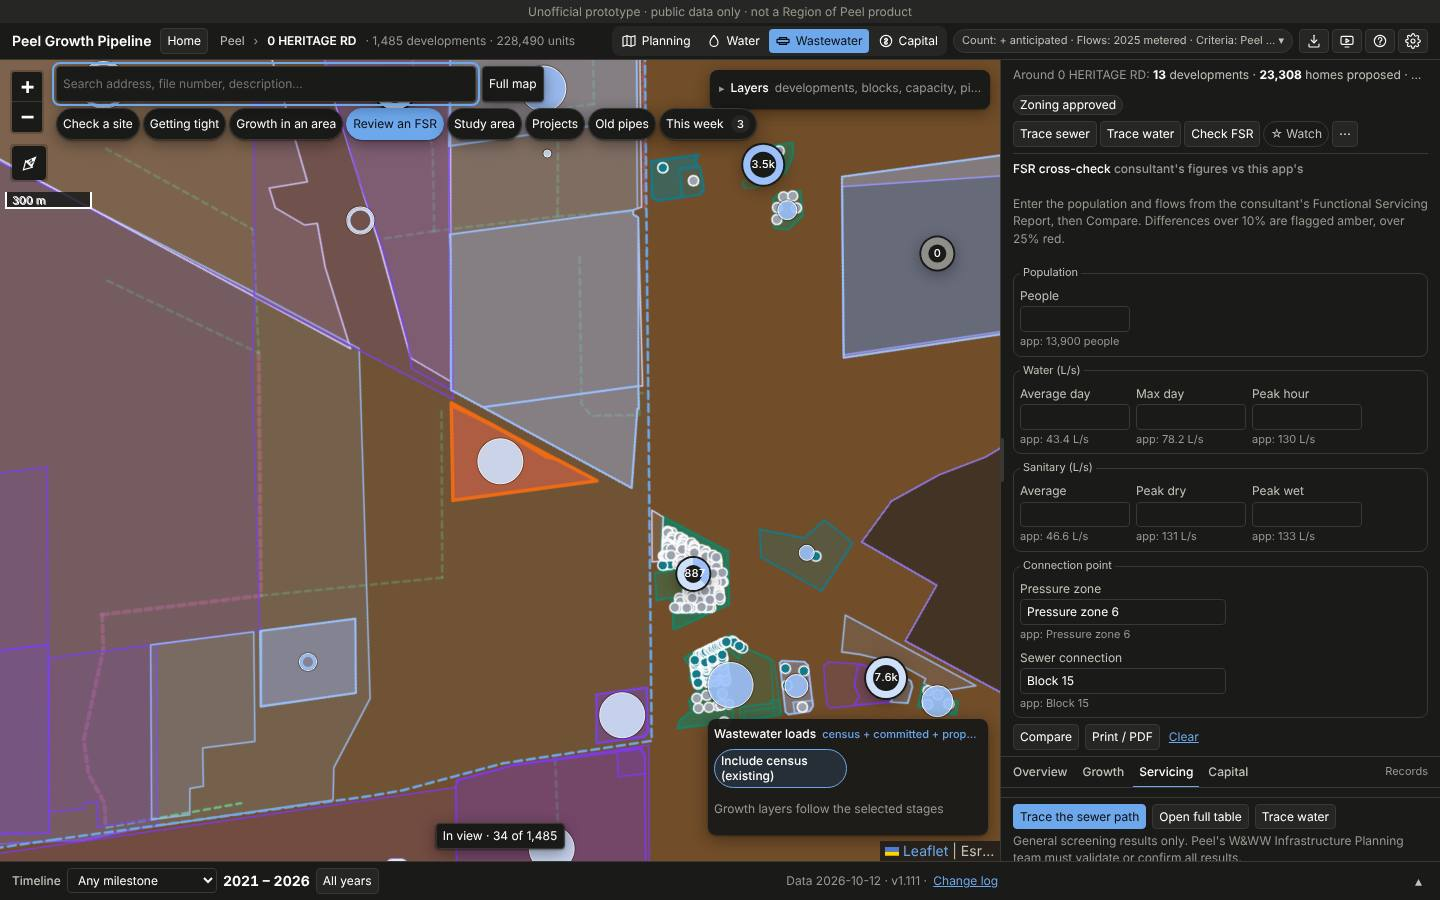
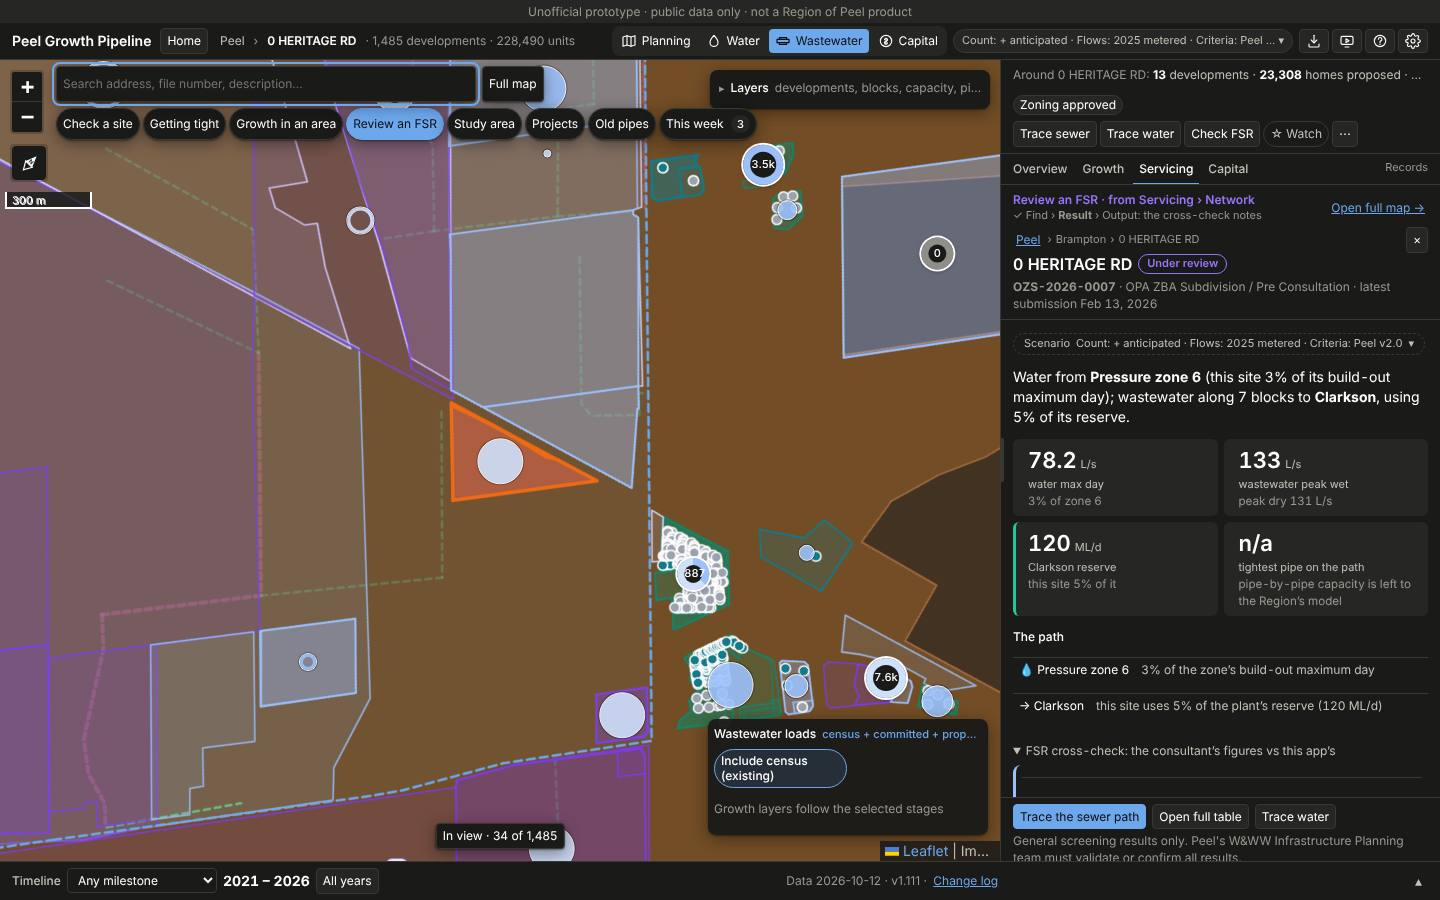
Review an FSR: the cross-check is an open fold of the Servicing panel at the site
The site bar's copy closes in this workspace; the form, its drafts and a comparison already run carry over (js/fsr-check.js mount).

Claude-Session: https://claude.ai/code/session_01E9zDvm6xW3ynJ788gjwVZS

diff --git a/js/workspaces.js b/js/workspaces.js
@@ -141,7 +141,9 @@
     const MA = root.PeelMapAnalysis; if (MA && MA.setMapView && MA.currentView && MA.currentView() !== pl.view) MA.setMapView(pl.view);
     const A = AT(); if (A) { if (pl.sub && A.setSub) A.setSub(pl.tab, pl.sub); if (A.setFootPref) A.setFootPref(pl.tab); A.showFootTab(pl.tab); }
     pipesLayer(id === 'pipes');
-    if (pl.fsr) setTimeout(() => { const b = document.querySelector('#site-bar [data-scope-fsr]'); if (b && !document.querySelector('#site-bar .fsr-check, #site-bar [data-fsr-open]')) b.click(); }, 300);
+    // Review an FSR at a site: the cross-check is an open fold of the Servicing panel (fsrSpec), so the
+    // site bar's own copy closes (one form on screen).
+    if (pl.fsr) { const box = document.getElementById('site-bar-fsr'), b = document.querySelector('#site-bar [data-scope-fsr]'); if (box && !box.hidden && b) b.click(); }
     if (pl.lasso && !o.noDraw && root.PeelAreaSelect && root.PeelAreaSelect.setLasso) root.PeelAreaSelect.setLasso(true);
     const ss = o.ss; if (ss && SS() && SS().open) SS().open(ss);
     renderChips();
@@ -170,6 +172,7 @@
     if (!isWs() || !cur || !PN()) return null;
     const pl = plan(cur, { site: scope.startsWith('dev:') });
     if ((cur === 'site' || cur === 'fsr') && pl.scope === 'find' && key === `${pl.tab}:${pl.sub}` && scope === 'area') return findSpec(cur);
+    if (cur === 'fsr' && key === 'svc:network' && scope.startsWith('dev:')) return fsrSpec(scope);
     if (cur === 'pipes' && key === 'svc:network' && scope === 'area') return pipesSpec();
     if (cur === 'week' && key === 'overview:' && scope === 'area') return weekSpec();
     return null;
@@ -189,6 +192,16 @@
       ],
       foot: { primary: { label: 'Search', attrs: { 'data-ws-focus': '' } } },
     };
+  }
+  // Review an FSR at a site: Servicing at the site as it is, with the FSR cross-check as its first fold,
+  // open (the same form and checks as the site bar's Check FSR, js/fsr-check.js).
+  function fsrSpec(scope) {
+    const e = PN().get('svc:network'), F = root.PeelFsrCheck, p = root.DevScope && root.DevScope.current && root.DevScope.current();
+    if (!e || !e.spec || e.scope !== scope || !F || !F.mount || !p) return null;
+    const s = e.spec;
+    return { ...s,
+      folds: [{ title: 'FSR cross-check: the consultant\u2019s figures vs this app\u2019s', open: true, id: 'pnl-fsr', html: '<div class="fsr-box" data-pnl-fsrbox></div>' }, ...(s.folds || [])],
+      onMount: host => { if (typeof s.onMount === 'function') s.onMount(host); const b = host.querySelector('[data-pnl-fsrbox]'); if (b) F.mount(b, p); } };
   }
   // Old pipes: Servicing › Network filtered to age / risk with the build-out load (units carried).
   function oldList() {

diff --git a/js/fsr-check.js b/js/fsr-check.js
@@ -372,6 +372,15 @@
   }
 
   /** Toggle the panel for the open development (wired from the site bar's Check FSR button). */
+  // Stage 4: the same form inside a panel (Review an FSR: an open fold of Servicing at the site). The
+  // consultant's figures typed so far are kept per development, and a comparison already run is re-run.
+  function mount(box, p) {
+    if (typeof document === 'undefined' || !box || !p) return;
+    renderForm(box, p);
+    box.dataset.pkey = p.key; box.dataset.built = '1';
+    _open = { key: p.key, p };
+    if (_last && _last.key === p.key && _drafts[p.key]) runCheck(box);
+  }
   function toggleFor(p, btn) {
     if (typeof document === 'undefined' || !p) return;
     const box = document.getElementById('site-bar-fsr');
@@ -389,9 +398,9 @@
 
   if (typeof document !== 'undefined') {
     document.addEventListener('click', e => {
-      const t = e.target && e.target.closest ? e.target.closest('#site-bar-fsr [data-fc-run], #site-bar-fsr [data-fc-print], #site-bar-fsr [data-fc-clear]') : null;
+      const t = e.target && e.target.closest ? e.target.closest('.fsr-box [data-fc-run], .fsr-box [data-fc-print], .fsr-box [data-fc-clear], #site-bar-fsr [data-fc-run], #site-bar-fsr [data-fc-print], #site-bar-fsr [data-fc-clear]') : null;
       if (!t) return;
-      const box = t.closest('#site-bar-fsr');
+      const box = t.closest('.fsr-box, #site-bar-fsr');
       if (!box) return;
       if (t.hasAttribute('data-fc-run')) return runCheck(box);
       if (t.hasAttribute('data-fc-print')) return printCheck();
@@ -399,9 +408,9 @@
     });
     // Keep the consultant's inputs while the panel is rebuilt (e.g. the scope refresh).
     document.addEventListener('input', e => {
-      const inp = e.target && e.target.closest ? e.target.closest('#site-bar-fsr [data-fc]') : null;
+      const inp = e.target && e.target.closest ? e.target.closest('.fsr-box [data-fc], #site-bar-fsr [data-fc]') : null;
       if (!inp || !inp.dataset.fc) return;
-      const box = inp.closest('#site-bar-fsr');
+      const box = inp.closest('.fsr-box, #site-bar-fsr');
       if (!box || !box.dataset.pkey) return;
       (_drafts[box.dataset.pkey] = _drafts[box.dataset.pkey] || {})[inp.dataset.fc] = inp.value;
     });
@@ -411,7 +420,7 @@
   const api = {
     WARN_PCT, BAD_PCT, NUM_KEYS, toNum, normCon, pctDiff, flagFor, fmtDiff,
     zoneMatch, flowRows, connRows, pipeChecks, plantCheck, dcCheck,
-    summarize, verdictOf, appValues, toggleFor, runCheck, printCheck,
+    summarize, verdictOf, appValues, toggleFor, mount, runCheck, printCheck,
   };
   if (typeof module !== 'undefined' && module.exports) module.exports = api;
   else root.PeelFsrCheck = api;

diff --git a/tests/workspaces.test.js b/tests/workspaces.test.js
@@ -144,6 +144,32 @@ test('2. workspace figures equal full-map figures (Home and This week read the P
   assert.equal(B.override('overview:', 'dev:x'), null);
 });
 
+test('Review an FSR at a site: the cross-check is an open fold of the Servicing panel', () => {
+  const { W: B, PN, window } = loadBrowser(AREA);
+  const mounted = [];
+  window.DevScope = { current: () => ({ key: 'x', title: '0 HERITAGE RD' }), close() {} };
+  window.PeelFsrCheck = { mount: (box, p) => mounted.push(p.key) };
+  // Servicing at the site, as js/svc-capacity.js sets it (its own folds and onMount kept).
+  let own = 0;
+  PN.set('svc:network', { head: { name: '0 HERITAGE RD' }, answer: 'Water from Pressure zone 6.', lists: [{ title: 'Path', rows: [{ html: 'Block 15' }], total: 1 }], folds: [{ title: 'Ground', html: '<div class="g"></div>' }], onMount: () => { own++; } });
+  B.go('fsr');
+  const spec = B.override('svc:network', 'dev:x');
+  assert.equal(spec.answer, 'Water from Pressure zone 6.', 'the panel itself is unchanged');
+  assert.deepEqual(plain(spec.folds.map(f => [f.title, !!f.open])), [['FSR cross-check: the consultant\u2019s figures vs this app\u2019s', true], ['Ground', false]]);
+  assert.match(PN.html({ key: 'svc:network', ...spec }), /<details class="pnl-fold" data-sec="fold" open id="pnl-fsr"><summary>FSR cross-check[^<]*<\/summary><div><div class="fsr-box" data-pnl-fsrbox><\/div><\/div><\/details><details class="pnl-fold" data-sec="fold"><summary>Ground/);
+  const box = {}, host = { querySelector: s => (s === '[data-pnl-fsrbox]' ? box : null) };
+  spec.onMount(host);
+  assert.deepEqual(mounted, ['x'], 'the form mounts for the open site');
+  assert.equal(own, 1, 'the panel\u2019s own async parts still fill');
+  // Only in Review an FSR, and only at the site it was set for.
+  assert.equal(B.override('svc:network', 'dev:other'), null);
+  B.go('site'); assert.equal(B.override('svc:network', 'dev:x'), null);
+  // The form's events work in any .fsr-box (the panel's or the site bar's); mount() keeps drafts.
+  const f = src('js/fsr-check.js');
+  assert.match(f, /closest\('\.fsr-box \[data-fc-run\], \.fsr-box \[data-fc-print\], \.fsr-box \[data-fc-clear\], #site-bar-fsr/);
+  assert.match(f, /function mount\(box, p\) \{[\s\S]*?if \(_last && _last\.key === p\.key && _drafts\[p\.key\]\) runCheck\(box\);/);
+});
+
 test('Check a site: Find → Result → Output in the header once the site is open', () => {
   const { W: B, window } = loadBrowser(AREA);
   B.go('site');

diff --git a/css/app.css b/css/app.css
@@ -2864,6 +2864,8 @@ html:not(.lab-hydro) .lab-hydro, html:not(.lab-funding) [data-dcasub="funding"] 
 .pnl-step-n { flex: 0 0 auto; width: 20px; height: 20px; border-radius: 50%; display: inline-flex; align-items: center; justify-content: center; font-size: var(--fs-1); font-weight: 600; border: 1px solid var(--border); color: var(--text-secondary); }
 .pnl-step.on .pnl-step-n { border-color: var(--pnl-stage); color: var(--pnl-stage); }
 .pnl-step strong { margin-right: 2px; }
+/* Review an FSR: the cross-check inside the Servicing panel (its fold names it, so its own heading hides). */
+.fsr-box .fsr-check > h3 { display: none; }
 .tb-home { flex: 0 0 auto; }
 /* Home: below the top bar, over the map and panels. */
 .home { position: fixed; top: var(--top-h, 0px); left: 0; right: 0; bottom: 0; z-index: 1150; background: var(--surface-0); overflow: auto; }
